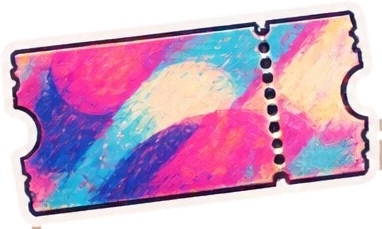
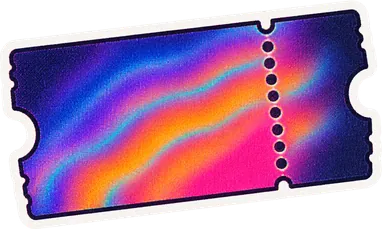
FYI door in a new language (owner, 25.11): the Copper Hours poster as a fisheye club shot with a Swiss grid (91KB, was 127KB), cover B as record grooves in thermal heat, the ticket repainted with the same heat; the painted pink wave and the cyan spray replaced by one painted thermal wave (30KB) reve

diff --git a/v7/fyi-door.js b/v7/fyi-door.js
@@ -6,7 +6,7 @@
   const $ = (s, r = root) => r.querySelector(s), $$ = (s, r = root) => [...r.querySelectorAll(s)];
   const stage = $('#fd-stage'), stin = $('#fd-stin'), ph = $('#fd-ph'), phTilt = $('#fd-phTilt'), view = $('#fd-view'), roll = $('#fd-roll');
   const rec = $('#fd-rec'), recSh = $('#fd-recSh'), recDisc = $('#fd-recDisc'), pst = $('#fd-pst'), tkt = $('#fd-tkt'), tktIn = $('#fd-tktIn');
-  const wvBack = $('#fd-wvBack'), wvFront = $('#fd-wvFront'), ink = $('#fd-ink'), hint = $('#fd-hint'), sk = $('#fd-sk'), bgCyan = $('.fd-bg-cyan'), bgDots = $('.fd-bg-dots');
+  const tw = $('#fd-tw'), twImg = $('#fd-tw img'), ink = $('#fd-ink'), hint = $('#fd-hint'), sk = $('#fd-sk'), bgDots = $('.fd-bg-dots');
   const RM = matchMedia('(prefers-reduced-motion: reduce)').matches;
   const MQ = matchMedia('(max-width:860px)');
   if (RM) root.classList.add('fd-rm');
@@ -41,7 +41,7 @@
   const trks = $$('.fd-trk-b');
 
   /* ---- geometry (stage px) */
-  let S = 1, mobile = false, vh = 454, G = null, wave = null, inkEls = {};
+  let S = 1, mobile = false, vh = 454, G = null, HB = null, skw = null, inkEls = {};
   const box = el => ({ x: el.offsetLeft, y: el.offsetTop, w: el.offsetWidth, h: el.offsetHeight });
   function rel(el) { const o = stin.getBoundingClientRect(), b = el.getBoundingClientRect(); return { x: (b.left - o.left) / S, y: (b.top - o.top) / S, w: b.width / S, h: b.height / S }; }
 
@@ -60,52 +60,18 @@
       hx: parseFloat(getComputedStyle(rec).getPropertyValue('--fd-hx')) || 0, hy: parseFloat(getComputedStyle(rec).getPropertyValue('--fd-hy')) || 0, hs: parseFloat(getComputedStyle(rec).getPropertyValue('--fd-hs')) || 1
     };
     root.classList.remove('fd-measuring');
-    buildWave(); buildInk(); buildSketch();
+    buildHeat(); buildInk(); buildSketch();
     render(T);
   }
 
-  /* ---- the wave */
-  function buildWave() {
-    const pr = G.ph.x + G.ph.w;
-    let x0, x1, cy, hMin, hMax, pow;
-    if (!mobile) { x0 = G.vn.x + G.vn.w + 5; x1 = G.W + G.bleed - 4; cy = G.vn.y + G.vn.h / 2; hMin = 15; hMax = 300; pow = 1.22; }
-    else { x0 = -14; x1 = G.W + 22; cy = G.ph.y - 34; hMin = 12; hMax = 178; pow = 1.5; }
-    const bars = []; let x = x0, w = mobile ? 3.4 : 3, i = 0; const g = mobile ? 1.062 : 1.082;
-    while (x + w < x1 && i < 60) {
-      const u = (x - x0) / (x1 - x0);
-      const f = .3 + .7 * Math.abs(Math.sin(i * 1.7 + .4) * .6 + Math.sin(i * .63 + 1.3) * .4);
-      const h = Math.max(w * 1.6, (hMin + (hMax - hMin) * Math.pow(u, pow)) * f);
-      bars.push({ x, w, h, front: mobile || x < pr + 1 });
-      x += w * 1.74; w *= g; i++;
-    }
-    const N = bars.length;
-    bars.forEach((b, k) => { b.at = .62 + 1.5 * (k / N); b.drip = (!mobile && (k === N - 3 || k === N - 6 || k === N - 8)) ? 22 + ((k * 37) % 30) : 0; });
-    /* the pink paint waits until the section is about two screens away (the page's late loader adds .is-near and sets the href) */
-    const later = () => { const s = document.getElementById('fyi'); return !!(s && s.hasAttribute('data-near') && !s.classList.contains('is-near')); };
-    const defs = id => `<defs>
-      <pattern id="fd-pp${id}" patternUnits="userSpaceOnUse" width="720" height="360"><image ${later() ? 'data-near-href' : 'href'}="img/fyi-door/paint-pink.webp" width="720" height="360" preserveAspectRatio="none"/></pattern>
-      <filter id="fd-wr${id}" x="-10%" y="-20%" width="120%" height="140%"><feTurbulence type="fractalNoise" baseFrequency=".035" numOctaves="2" seed="5" result="n"/><feDisplacementMap in="SourceGraphic" in2="n" scale="5"/></filter>
-      ${id === 'b' ? halftone(x1, cy, hMax) : ''}</defs>`;
-    const off = { c: [-4, 3.5], v: [3.5, -3], m: [0, 0] };
-    const rects = (list, cls) => list.map(b => { const k = Math.min(1, b.w / 9), dx = off[cls][0] * k, dy = off[cls][1] * k, id = bars.indexOf(b);
-      return `<rect class="fd-${cls}" data-k="${id}" data-dy="${dy.toFixed(2)}" x="${(b.x + dx).toFixed(1)}" width="${b.w.toFixed(1)}" rx="${(b.w / 2).toFixed(1)}" y="${cy}" height="0"/>` + (b.drip ? `<rect class="fd-${cls} fd-dr" data-k="${id}" data-dy="${dy.toFixed(2)}" x="${(b.x + dx + b.w * .22).toFixed(1)}" width="${(b.w * .3).toFixed(1)}" rx="${(b.w * .15).toFixed(1)}" y="${cy}" height="0"/>` : ''); }).join('');
-    const group = (list, id) => `${defs(id)}<g filter="url(#fd-wr${id})" ${id === 'b' ? 'mask="url(#fd-wmb)"' : ''}>
-      <g fill="#22cdf0">${rects(list, 'c')}</g>
-      <g fill="#7a2cff">${rects(list, 'v')}</g>
-      <g fill="url(#fd-pp${id})">${rects(list, 'm')}</g></g>`;
-    wvBack.innerHTML = group(bars.filter(b => !b.front), 'b');
-    wvFront.innerHTML = group(bars.filter(b => b.front), 'f');
-    bars.forEach((b, k) => { b.els = $$(`rect[data-k="${k}"]:not(.fd-dr)`, stin); b.drs = $$(`rect.fd-dr[data-k="${k}"]`, stin); });
-    wave = { bars, cy, x0, x1 };
-  }
-  function halftone(x1, cy, hMax) {
-    const zone = 250, xs = x1 - zone, pitch = 8.5; let c = '';
-    for (let r = 0, y = cy - hMax / 2 - 14; y < cy + hMax / 2 + 70; y += pitch * .866, r++)
-      for (let x = xs + (r % 2 ? pitch / 2 : 0); x < x1 + pitch; x += pitch) {
-        const u = clamp((x - xs) / zone), rad = pitch * .78 * Math.pow(1 - u, .62);
-        if (rad > .35) c += `<circle cx="${x.toFixed(1)}" cy="${y.toFixed(1)}" r="${rad.toFixed(2)}"/>`;
-      }
-    return `<mask id="fd-wmb" maskUnits="userSpaceOnUse" x="-200" y="${cy - 400}" width="${x1 + 400}" height="800"><rect x="-200" y="${cy - 400}" width="${xs + 201}" height="800" fill="#fff"/><g fill="#fff">${c}</g></mask>`;
+  /* ---- the voice note, painted: where the picture sits (stage px). Its centre line is at 53% of its height. */
+  function buildHeat() {
+    let x0, x1, cy;
+    if (!mobile) { x0 = G.ph.x + G.ph.w - 24; x1 = G.W + G.bleed - 4; cy = G.vn.y + G.vn.h / 2; }
+    else { x0 = -14; x1 = G.W + 22; cy = G.ph.y - 40; }
+    const w = x1 - x0, h = w * 418 / 900;
+    HB = { x: x0, y: cy - h * .53, w, h, cx: x0 + w / 2, cy };
+    Object.assign(tw.style, { left: HB.x.toFixed(1) + 'px', top: HB.y.toFixed(1) + 'px', width: w.toFixed(1) + 'px', height: h.toFixed(1) + 'px' });
   }
 
   /* ---- ink */
@@ -142,10 +108,8 @@
     const boxLines = (x, y, w, h, o = 7) => `M${f(x - o)} ${f(y + 1)}L${f(x + w + o * .6)} ${f(y - 1)}M${f(x + w + 1)} ${f(y - o)}L${f(x + w - 1)} ${f(y + h + o * .7)}M${f(x + w + o * .8)} ${f(y + h)}L${f(x - o * .5)} ${f(y + h + 1.5)}M${f(x - 1)} ${f(y + h + o)}L${f(x + 1)} ${f(y - o * .6)}`;
     const zig = (x, y, w, a, n) => { let d = `M${f(x)} ${f(y)}`; for (let i = 1; i <= n; i++) d += `L${f(x + w * i / n)} ${f(y + (i % 2 ? -a : a))}`; return d; };
     const g = (b, deg, d) => P.push(`<g transform="rotate(${deg} ${f(b.x + b.w / 2)} ${f(b.y + b.h / 2)})"><path d="${d}"/></g>`);
-    // wave
-    let d = '', first = true;
-    for (const b of wave.bars) { if (!mobile && b.front) continue; const x = b.x + b.w / 2; d += `${first ? 'M' : 'L'}${f(x - b.w * .3)} ${f(wave.cy - b.h / 2 - 3)}L${f(x + b.w * .3)} ${f(wave.cy + b.h / 2 + 3)}`; first = false; }
-    P.push(`<path d="${d}"/>`);
+    // the voice note: a zigzag along its centre line
+    P.push(`<path id="fd-skw" d="${zig(HB.x + 10, HB.cy, HB.w - 20, HB.h * .16, 34)}"/>`);
     // record: sleeve and disc
     const r = G.rec, cx = r.x + r.w * .5 + r.w * .9 * .2, cy = r.y + r.h * .5 - r.h * .9 * .44, R = r.w * .45;
     g(r, -7, boxLines(r.x, r.y, r.w, r.h) + `M${f(cx - R)} ${f(cy)}a${f(R)} ${f(R)} 0 1 1 ${f(2 * R)} 0a${f(R)} ${f(R)} 0 1 1 ${f(-2 * R + 3)} ${f(-5)}M${f(cx - R * .36)} ${f(cy)}a${f(R * .36)} ${f(R * .36)} 0 1 1 ${f(R * .72)} 0a${f(R * .36)} ${f(R * .36)} 0 1 1 ${f(-R * .72 + 2)} -2`);
@@ -157,6 +121,7 @@
     const t = G.tkt;
     g(t, -9, `M${f(t.x + 8)} ${f(t.y + 6)}H${f(t.x + t.w - 6)}V${f(t.y + t.h - 6)}H${f(t.x + 6)}Z` + `M${f(t.x + t.w * .72)} ${f(t.y + 10)}v8m0 6v8m0 6v8m0 6v8`);
     sk.innerHTML = `<defs><filter id="fd-skr" x="-5%" y="-5%" width="110%" height="110%"><feTurbulence type="fractalNoise" baseFrequency=".014" numOctaves="2" seed="11" result="n"/><feDisplacementMap in="SourceGraphic" in2="n" scale="6"/></filter></defs><g filter="url(#fd-skr)">${P.join('')}</g>`;
+    skw = sk.querySelector('#fd-skw');
   }
   const inkSet = (id, d, o = 1) => { const p = inkEls[id]; if (p) { p.style.setProperty('--fd-d', d.toFixed(3)); p.style.setProperty('--fd-o', o.toFixed(3)); } };
 
@@ -190,14 +155,12 @@
     const n = Math.round(4 + 23 * out3(seg(t, 11.25, 12.5)));
     if (n !== lastN) { evN.textContent = n; tktN.textContent = n; lastN = n; }
 
-    // wave
-    for (const b of wave.bars) {
-      const p = back(seg(t, b.at, b.at + .44)), h = Math.max(0, b.h * p), d = b.drip ? (p > .9 ? out3(seg(t, b.at + .35, b.at + 1.3)) * b.drip + b.w * .6 : 0) : 0;
-      if (b.h0 !== h) { b.h0 = h; for (const e of b.els) { e.setAttribute('y', (wave.cy - h / 2 + +e.dataset.dy).toFixed(1)); e.setAttribute('height', h.toFixed(1)); } }
-      if (b.drip && b.d0 !== d) { b.d0 = d; const y0 = wave.cy + b.h / 2 - b.w * .6; for (const e of b.drs) { e.setAttribute('y', (y0 + +e.dataset.dy).toFixed(1)); e.setAttribute('height', d.toFixed(1)); } }
-    }
-    wvFront.style.opacity = mobile ? 1 : (1 - seg(t, 3.8, 4.1)).toFixed(2);
-    bgCyan.style.setProperty('--fd-on', io(seg(t, .7, 2.2)).toFixed(3));
+    // the voice note: revealed left to right while Maya talks, breathing with her voice
+    const rev = io(seg(t, .5, 2.45));
+    tw.style.setProperty('--fd-rev', rev.toFixed(3));
+    if (skw) skw.style.opacity = (1 - clamp(rev * 1.6)).toFixed(3);
+    const talk = t > .5 && t < 2.45 ? Math.abs(Math.sin(t * 9)) * .08 : 0;
+    twImg.style.transform = talk ? `scale(1,${(1 + talk).toFixed(3)})` : '';
     bgDots.style.setProperty('--fd-on', io(seg(t, 10.9, 11.7)).toFixed(3));
 
     // record

diff --git a/v7/fyi-door.css b/v7/fyi-door.css
@@ -32,7 +32,6 @@
 /* ---------- stage */
 #fyi#fyi .fd-st-in{ position:relative; width:704px; height:620px; transform-origin:0 0; }
 #fyi#fyi .fd-dp{ position:absolute; will-change:translate; }
-#fyi#fyi .fd-bg-cyan{ left:300px; top:-70px; width:540px; height:430px; background:url(../img/fyi-door/spray-cyan.webp) center/100% 100% no-repeat; opacity:calc(var(--fd-on,0) * .42); }
 #fyi#fyi .fd-bg-dots{ left:420px; top:330px; width:400px; height:330px; background:radial-gradient(circle,var(--fd-pink) 1.6px,transparent 2.1px) 0 0/10px 10px; opacity:calc(var(--fd-on,0) * .5); -webkit-mask-image:radial-gradient(ellipse at 62% 50%,#000 0,transparent 66%); mask-image:radial-gradient(ellipse at 62% 50%,#000 0,transparent 66%); }
 #fyi#fyi .fd-sk{ left:0; top:0; width:1px; height:1px; overflow:visible; z-index:1; pointer-events:none; }
 #fyi#fyi .fd-sk path{ fill:none; stroke:var(--fd-ink); stroke-width:1.5; stroke-linecap:round; stroke-linejoin:round; opacity:.3; }
@@ -137,9 +136,10 @@
 #fyi#fyi .fd-ev-n{ margin-left:auto; font-size:11px; color:#aeaeb2; font-variant-numeric:tabular-nums; }
 #fyi#fyi .fd-ev-n b{ color:#fff; font-weight:600; }
 /* ---------- the wave */
-#fyi#fyi .fd-wv{ left:0; top:0; width:1px; height:1px; overflow:visible; pointer-events:none; }
-#fyi#fyi .fd-wv-back{ z-index:1; }
-#fyi#fyi .fd-wv-front{ z-index:4; }
+/* the voice note, painted as heat (img/fyi-door/thermal-wave.webp, transparent). The timeline reveals it left to right with a clip and
+   breathes it with a scale while Maya talks: no repaint of the picture itself. */
+#fyi#fyi .fd-tw{ left:0; top:0; width:10px; height:10px; z-index:1; pointer-events:none; clip-path:inset(-10% calc((1 - var(--fd-rev,0)) * 100%) -10% 0); }
+#fyi#fyi .fd-tw img{ display:block; width:100%; height:100%; transform-origin:50% 53%; will-change:transform; }
 /* ---------- the poster */
 #fyi#fyi .fd-pst{ left:508px; top:262px; width:250px; height:350px; z-index:2; transform-origin:0 0; pointer-events:none; }
 #fyi#fyi .fd-pst.fd-fly{ z-index:6; }
@@ -168,9 +168,9 @@
 #fyi#fyi .fd-tkt{ left:650px; top:540px; width:150px; height:90px; z-index:7; pointer-events:none; }
 #fyi#fyi .fd-tkt-in{ position:absolute; inset:0; transform-origin:50% 50%; filter:drop-shadow(0 6px 7px rgba(23,27,32,.3)); }
 #fyi#fyi .fd-tkt-in img{ display:block; width:100%; height:100%; }
-#fyi#fyi .fd-tkt-tx{ position:absolute; left:10%; top:19%; width:60%; height:62%; display:flex; align-items:baseline; justify-content:center; gap:5px; transform:rotate(-6.500deg) translateY(17%); color:#fff; text-shadow:-1.5px 1.5px 0 var(--fd-navy), 1.5px 1.5px 0 var(--fd-navy), 0 -1px 0 var(--fd-navy), 0 3px 0 var(--fd-navy); }
-#fyi#fyi .fd-tkt-tx b{ font-size:34px; font-weight:700; line-height:1; letter-spacing:-.04em; font-variant-numeric:tabular-nums; }
-#fyi#fyi .fd-tkt-tx em{ font-style:normal; font-size:15px; font-weight:700; letter-spacing:-.01em; }
+#fyi#fyi .fd-tkt-tx{ position:absolute; left:10%; top:19%; width:60%; height:62%; display:flex; align-items:baseline; justify-content:center; gap:5px; transform:rotate(-6.500deg) translateY(17%); color:#F2EDE4; font-family:"Inter Tight","Helvetica Neue",Helvetica,Arial,sans-serif; text-shadow:0 1px 0 rgba(21,24,63,.55), 0 0 10px rgba(21,24,63,.5); }
+#fyi#fyi .fd-tkt-tx b{ font-size:36px; font-weight:900; line-height:1; letter-spacing:-.06em; font-variant-numeric:tabular-nums; }
+#fyi#fyi .fd-tkt-tx em{ font-style:normal; font-size:12px; font-weight:800; letter-spacing:.04em; text-transform:uppercase; }
 /* ---------- ink */
 #fyi#fyi .fd-ink{ left:0; top:0; width:1px; height:1px; overflow:visible; z-index:8; pointer-events:none; }
 #fyi#fyi .fd-ink path{ fill:none; stroke:var(--fd-ink); stroke-width:2.200; stroke-linecap:round; stroke-linejoin:round; stroke-dasharray:1; stroke-dashoffset:calc(1 - var(--fd-d,0)); opacity:var(--fd-o,1); }
@@ -178,8 +178,8 @@
 #fyi#fyi .fd-hint{ appearance:none; border:0; background:none; padding:6px 4px; left:372px; top:226px; z-index:8; cursor:pointer; font-size:15px; font-weight:600; color:var(--fd-ink-h); white-space:nowrap; transform:rotate(-3deg); }
 #fyi#fyi .fd-hint span{ display:block; }
 /* ---------- transitions on a jump */
-#fyi#fyi .fd-st-in.fd-cut .fd-rec, #fyi#fyi .fd-st-in.fd-cut .fd-pst, #fyi#fyi .fd-st-in.fd-cut .fd-tkt, #fyi#fyi .fd-st-in.fd-cut .fd-wv, #fyi#fyi .fd-st-in.fd-cut .fd-ink, #fyi#fyi .fd-st-in.fd-cut .fd-th-roll{ opacity:0; transition:opacity .16s; }
-#fyi#fyi .fd-rec, #fyi#fyi .fd-pst, #fyi#fyi .fd-tkt, #fyi#fyi .fd-wv, #fyi#fyi .fd-ink, #fyi#fyi .fd-th-roll{ transition:opacity .3s; }
+#fyi#fyi .fd-st-in.fd-cut .fd-rec, #fyi#fyi .fd-st-in.fd-cut .fd-pst, #fyi#fyi .fd-st-in.fd-cut .fd-tkt, #fyi#fyi .fd-st-in.fd-cut .fd-tw, #fyi#fyi .fd-st-in.fd-cut .fd-ink, #fyi#fyi .fd-st-in.fd-cut .fd-th-roll{ opacity:0; transition:opacity .16s; }
+#fyi#fyi .fd-rec, #fyi#fyi .fd-pst, #fyi#fyi .fd-tkt, #fyi#fyi .fd-tw, #fyi#fyi .fd-ink, #fyi#fyi .fd-th-roll{ transition:opacity .3s; }
 /* ---------- the app as it looks on the FYI page now (23.11.2026): one dark surface with a violet glow, pink for what you send,
    a pink-to-violet edge only on what AI made, stamps in mono. Sizes stay as they were, so the thread still fits its three pages. */
 #fyi#fyi{ --fd-me:linear-gradient(165deg,#ff3d98,#f01f84 55%,#d4136f); --fd-ai:linear-gradient(135deg,#ff2d8f,#7a2cff); --fd-s1:#15161f; --fd-lilac:#c9b8ff; }
@@ -290,7 +290,6 @@
   #fyi#fyi .fd-ev-btn, #fyi#fyi .fd-ev-go{ height:31px; font-size:13.500px; border-radius:16px; padding:0 14px; }
   #fyi#fyi .fd-ev-n, #fyi#fyi .fd-ev-draft small{ font-size:12.500px; }
   #fyi#fyi .fd-stack.fd-sm img{ width:20px; height:20px; }
-  #fyi#fyi .fd-bg-cyan{ left:-30px; top:-30px; width:440px; height:300px; }
   #fyi#fyi .fd-bg-dots{ left:80px; top:672px; width:300px; height:270px; }
   #fyi#fyi .fd-pst{ left:auto; right:-2px; top:680px; width:186px; height:260px; z-index:6; }
   #fyi#fyi .fd-pst.fd-fly{ z-index:9; }
@@ -298,7 +297,7 @@
   #fyi#fyi .fd-rec-av img{ width:40px; height:40px; border-width:3px; }
   #fyi#fyi .fd-tkt{ left:auto; right:0; top:878px; width:128px; height:77px; z-index:8; }
   #fyi#fyi .fd-tkt-tx b{ font-size:30px; }
-  #fyi#fyi .fd-tkt-tx em{ font-size:14px; }
+  #fyi#fyi .fd-tkt-tx em{ font-size:11px; }
   #fyi#fyi .fd-hint{ left:auto; right:12px; top:296px; font-size:15px; color:#fff; transform:rotate(-2deg); }
   #fyi#fyi .fd-sk{ z-index:5; }
   #fyi#fyi .fd-sk path{ stroke:#8d9096; opacity:.7; }
@@ -311,3 +310,25 @@
 #fyi#fyi.fd-measuring .fd-rv{ opacity:1 !important; transform:none !important; }
 #fyi#fyi.fd-measuring .fd-dp{ translate:none !important; }
 #fyi#fyi.fd-measuring .fd-rec, #fyi#fyi.fd-measuring .fd-pst, #fyi#fyi.fd-measuring .fd-ph-tilt{ transform:none !important; }
+
+/* ---- FYI's world, a new type language (25.11.2026): the whole block speaks the Swiss grid of its posters.
+   Inter Tight, heavy and tight, upper case for the voice of the poster; square rules instead of soft pills. */
+#fyi#fyi{ --fd-type:"Inter Tight","Helvetica Neue",Helvetica,Arial,sans-serif; }
+#fyi#fyi .fd-d-copy, #fyi#fyi .fd-d-ctl{ font-family:var(--fd-type); }
+#fyi#fyi .fd-d-copy .label{ display:block; padding-top:10px; border-top:2px solid var(--fd-ink-h); font-family:var(--fd-type) !important; font-size:12px !important; font-weight:800 !important; letter-spacing:.08em !important; text-transform:uppercase !important; color:var(--fd-ink-h); }
+#fyi#fyi .fd-d-copy .label b{ font-weight:800; color:var(--fd-pink); }
+#fyi#fyi h2{ margin-top:14px; font-size:clamp(40px,4.7vw,66px); font-weight:900; line-height:.9; letter-spacing:-.05em; text-transform:uppercase; max-width:8em; }
+#fyi#fyi .fd-d-copy p{ font-size:17px; font-weight:500; line-height:1.45; letter-spacing:-.005em; }
+#fyi#fyi .fd-trk-l, #fyi#fyi .fd-trk-l i{ height:2px; border-radius:0; }
+#fyi#fyi .fd-trk-n{ font-size:12px; font-weight:800; letter-spacing:.04em; }
+#fyi#fyi .fd-trk-t{ font-size:13px; font-weight:800; letter-spacing:.03em; text-transform:uppercase; }
+#fyi#fyi .fd-cap-i{ font-size:15.5px; font-weight:500; }
+@media (max-width:860px){
+  #fyi#fyi h2{ font-size:clamp(38px,11.5vw,56px); max-width:7.6em; }
+  #fyi#fyi .fd-trk-t{ font-size:12px; }
+}
+
+/* the steps are only their lines now (owner, 25.11.2026): the names and the captions stay for screen readers only */
+#fyi#fyi .fd-trk-n, #fyi#fyi .fd-trk-t, #fyi#fyi .fd-cap{ position:absolute !important; width:1px; height:1px; margin:-1px; padding:0; overflow:hidden; clip:rect(0 0 0 0); white-space:nowrap; border:0; }
+#fyi#fyi .fd-trk-b{ row-gap:0; padding:10px 0; }
+#fyi#fyi .fd-trk-l, #fyi#fyi .fd-trk-l i{ height:3px; }

diff --git a/index.html b/index.html
@@ -41,8 +41,8 @@ window.v7Near=function(el,fn,m){if(!el||!('IntersectionObserver' in window))retu
 <link rel="apple-touch-icon" href="apple-touch-icon.png">
 <link rel="preconnect" href="https://fonts.googleapis.com">
 <link rel="preconnect" href="https://fonts.gstatic.com" crossorigin>
-<link href="https://fonts.googleapis.com/css2?family=Bricolage+Grotesque:opsz,wght@12..96,700&family=Figtree:wght@400;500;600;700&family=Geist:wght@400;500;600&family=Geist+Mono:wght@400;500&family=Livvic:wght@400;500;600;700&display=swap" rel="stylesheet">
-<style>/* decorative textures of far sections wait for .is-near (set by the late loader at the foot of the page) */#fyi[data-near]:not(.is-near) .fd-bg-cyan, footer.ft[data-near]:not(.is-near) .ft-sky::before{ background-image:none !important; }</style>
+<link href="https://fonts.googleapis.com/css2?family=Bricolage+Grotesque:opsz,wght@12..96,700&family=Figtree:wght@400;500;600;700&family=Geist:wght@400;500;600&family=Geist+Mono:wght@400;500&family=Inter+Tight:wght@500;700;800;900&family=Livvic:wght@400;500;600;700&display=swap" rel="stylesheet">
+<style>/* decorative textures of far sections wait for .is-near (set by the late loader at the foot of the page) */footer.ft[data-near]:not(.is-near) .ft-sky::before{ background-image:none !important; }</style>
 <link rel="stylesheet" href="work/lab-live.css">
 <link rel="stylesheet" href="work/lab-tour.css">
 <link rel="stylesheet" href="work/lab-topics.css">
@@ -4371,15 +4371,14 @@ html.me-scroll #about .me-pin.me-set .me-photo.me-v7::before{ transition: none; 
     <div class="fd-d-stage" id="fd-stage">
       <div class="fd-st-in" id="fd-stin">
 
-        <!-- far wall: spray and halftone -->
-        <div class="fd-dp fd-bg-cyan" data-depth="5"></div>
+        <!-- far wall: halftone -->
         <div class="fd-dp fd-bg-dots" data-depth="9"></div>
 
         <!-- the plan, in ink: where each thing will land -->
         <svg class="fd-dp fd-sk" id="fd-sk" data-depth="10" aria-hidden="true"></svg>
 
-        <!-- the wave, painted on the page -->
-        <svg class="fd-dp fd-wv fd-wv-back" id="fd-wvBack" data-depth="11" aria-hidden="true"></svg>
+        <!-- the voice note, painted as heat: it is revealed left to right while Maya talks -->
+        <div class="fd-dp fd-tw" id="fd-tw" data-depth="11" aria-hidden="true"><img loading="lazy" decoding="async" src="img/fyi-door/thermal-wave.webp" alt="" width="900" height="418"></div>
 
         <!-- the poster (pastes itself on the page) -->
         <div class="fd-dp fd-pst" id="fd-pst" data-depth="13" aria-hidden="true">
@@ -4473,8 +4472,6 @@ html.me-scroll #about .me-pin.me-set .me-photo.me-v7::before{ transition: none; 
           </div>
         </div>
 
-        <!-- the wave where it crosses the glass -->
-        <svg class="fd-dp fd-wv fd-wv-front" id="fd-wvFront" data-depth="18" aria-hidden="true"></svg>
 
         <!-- the record -->
         <div class="fd-dp fd-rec" id="fd-rec" data-depth="30" aria-hidden="true">
